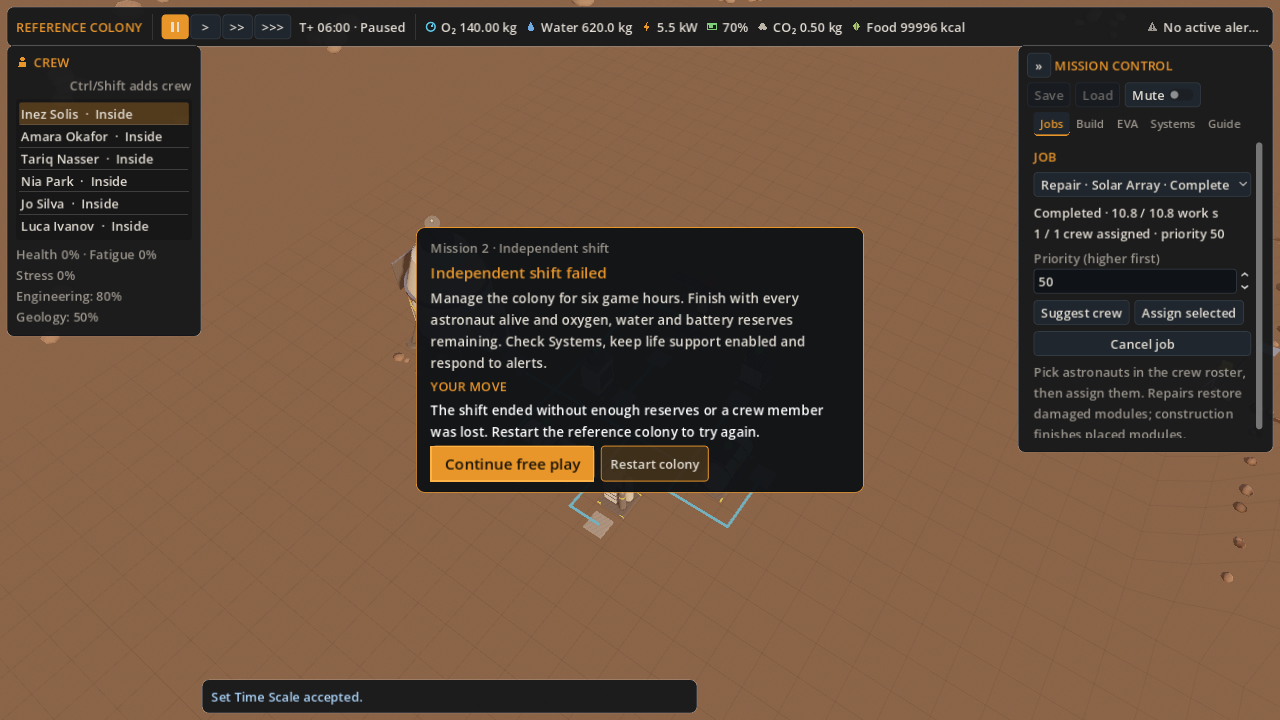
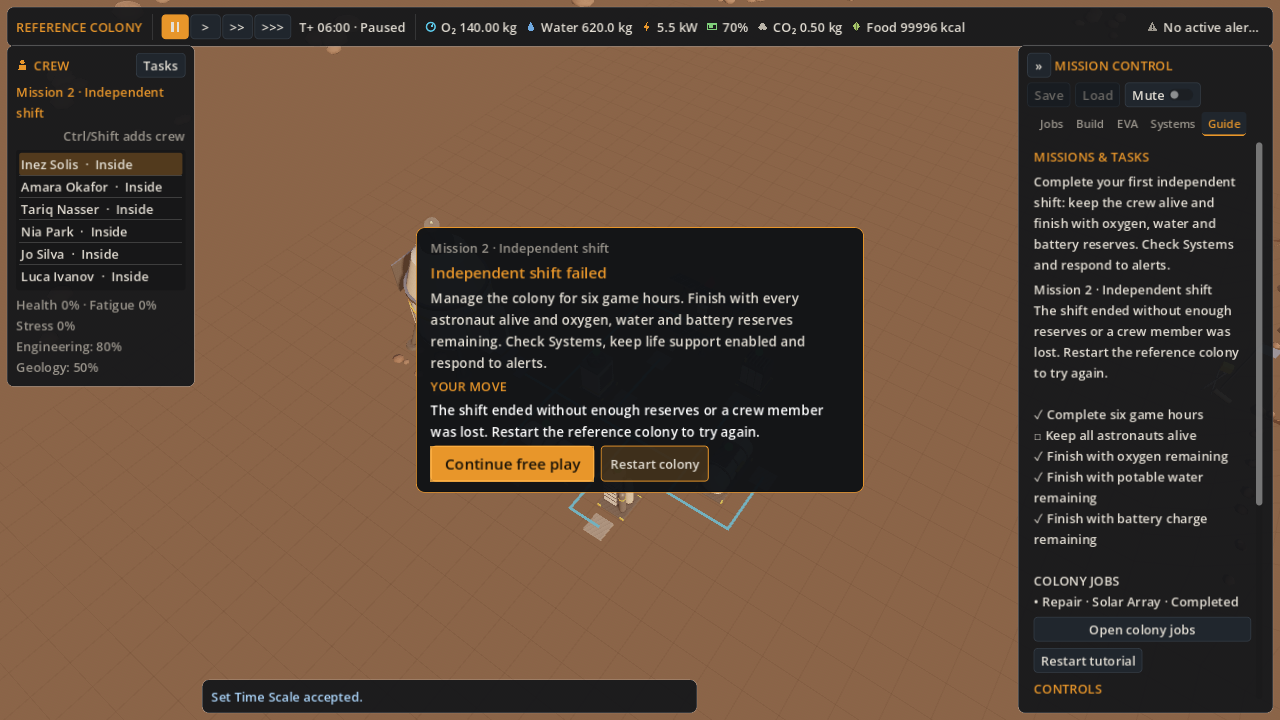
Expose mission tasks and keep interactive simulation responsive

diff --git a/docs/MISSION_TASKS_AND_FRAME_PACING.md b/docs/MISSION_TASKS_AND_FRAME_PACING.md
@@ -1,0 +1,35 @@
+# Discoverable missions and responsive simulation
+
+The always-visible **Tasks** button beside CREW opens mission objectives, their
+current checklist and colony jobs. It works with guidance hidden or disabled.
+Mission 2 unlocks after the reference colony's starting repairs are complete.
+Tasks explains that requirement, marks the ready state, and offers **Start mission
+2**. Starting pauses the clock so the objective can be read. The guided debrief
+still offers its original independent-shift handoff.
+
+The frame-rate report reproduced two main-thread costs:
+
+- Production HUD snapshot refresh repeated a large placement flood fill despite
+  unchanged geometry: approximately 48 ms per refresh in the reference colony.
+- Fastest mode requested enough simulation ticks that a stalled frame could run
+  120 ticks before drawing again. Measured updates averaged about 101 ms with a
+  nominal 60 Hz input, or 342 ms with a simulated 7 Hz catch-up input.
+
+The HUD now reuses placement geometry until relevant input changes, while checking
+resource affordability fresh. The interactive backend yields between committed
+ticks after an 8 ms work budget, retaining all pending simulation time. Headless
+`advance()` remains unchanged. Normal pacing remains one game minute per real
+second; faster presets are tuned to avoid the previous excessive per-frame load.
+
+On this machine, a bounded 3840x2130 Windows rendered probe (two 180-frame bands)
+averaged 16.61 and 16.51 ms per frame, approximately 60 FPS. HUD refresh averaged
+1.61 ms. These are local, short-probe results, not a universal FPS guarantee or a
+long-duration gameplay run. The second band injects stalled-frame time to exercise
+backlog handling. The profiler is `tests/world/profile_game_pacing.gd`; use
+`-- --sustained` for the 180-frame bands (otherwise 12 samples).
+
+Validation includes the full headless suite, exact equivalence after draining a
+budgeted simulation's retained time, pause behavior, placement-cache invalidation,
+fresh affordability checks, and mission availability with guidance off. Rendered
+tutorial checks run at 1280x720 and 1600x900, including Tasks and Mission 2 ready
+screens. See `docs/evidence/tasks-performance/validation.txt` for output.

diff --git a/docs/TIME_AND_MISSION_HANDOFF.md b/docs/TIME_AND_MISSION_HANDOFF.md
@@ -8,10 +8,14 @@ All tutorial instructions use the same arrows.
 The world bridge applies presentation pacing before advancing the deterministic
 backend. Simulation speed selectors, saved-state schemas, one-second accounting,
 physical rates and solar-day definitions are preserved. The configured Mars sol
-retains its existing length. Fast/fastest retain relative acceleration and bounded
-tick processing; excess work remains in the backend's time backlog.
+retains its existing length. Faster presets are tuned for interactive play. The
+backend yields between committed ticks after an 8 ms work budget; excess work
+remains in its time backlog. Headless `advance()` keeps its deterministic API.
 
 After the reference repairs, the debrief offers **Begin independent shift**.
+The always-visible **Tasks** button beside CREW opens a checklist of mission
+objectives and colony jobs. It explains the repair requirement and offers **Start
+mission 2** when eligible, including with tutorial guidance hidden or disabled.
 Mission 2 keeps a six-game-hour objective visible: keep everyone alive and finish
 with oxygen, potable water and battery reserves. Crew loss fails immediately;
 empty reserves fail at the deadline. Success/failure stays visible until dismissed
@@ -27,3 +31,8 @@ Validation: full headless suite; bridge timing/pause checks; live tutorial hando
 arrow/clock checks; deadline, crew-loss and result-latching cases; rendered cards
 at 1280x720 and 1600x900. Terminal-card screenshots use detached presentation
 snapshots and do not represent a sustained six-hour colony run.
+
+The HUD caches placement geometry independently of resource affordability. The
+key includes the placement request, map, structural building data, site and
+expedition records, and injected/occupied cells. Resource costs are checked fresh
+on every refresh; changing geometry forces a new authoritative preview.
